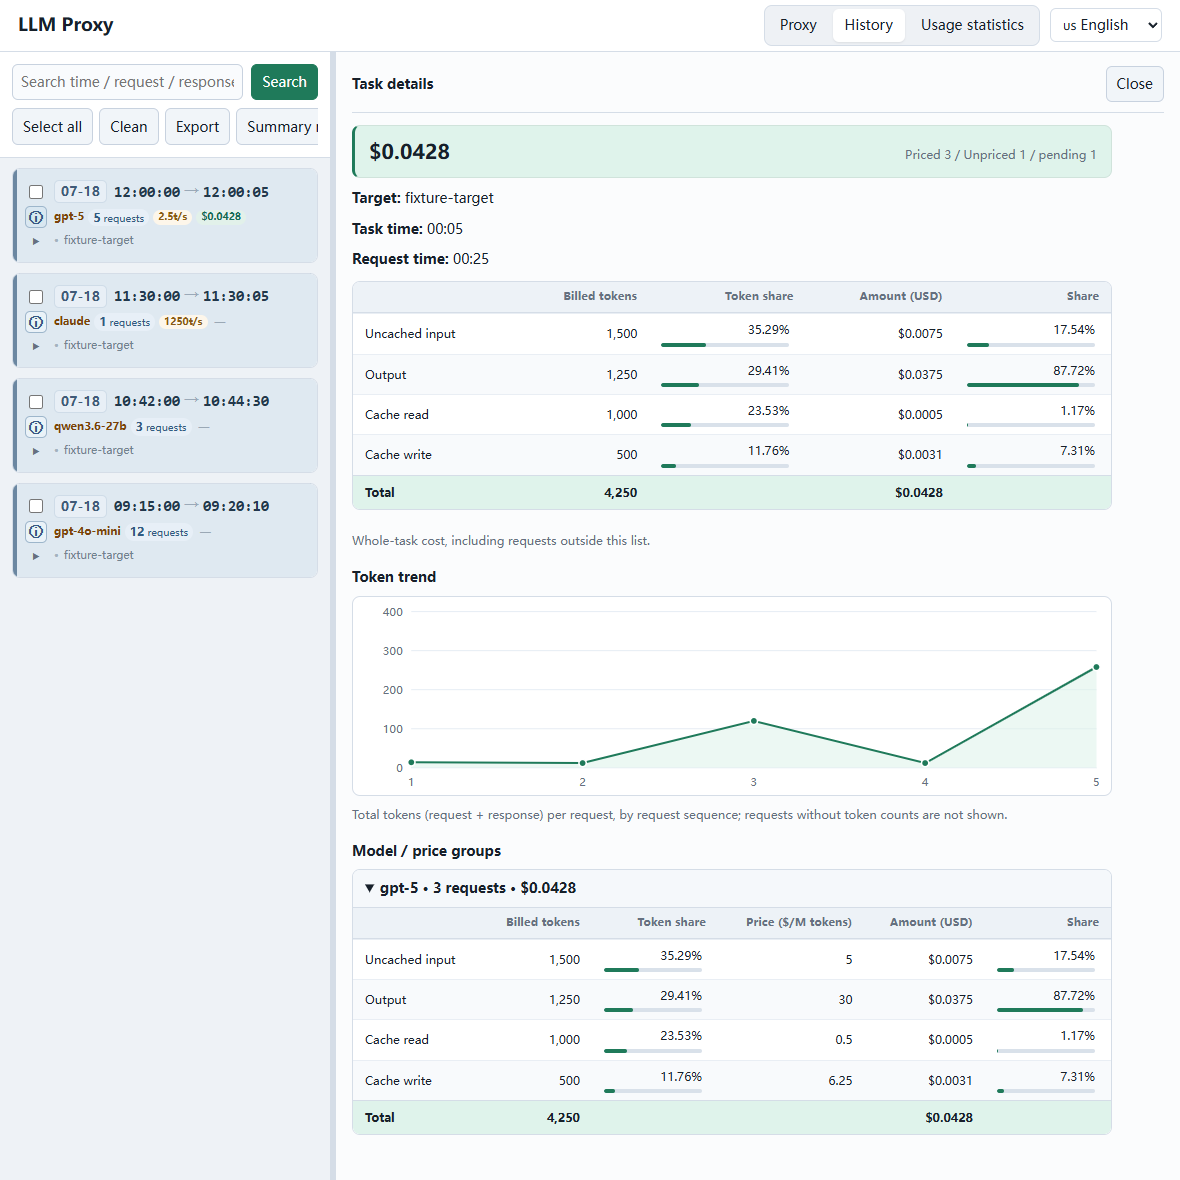
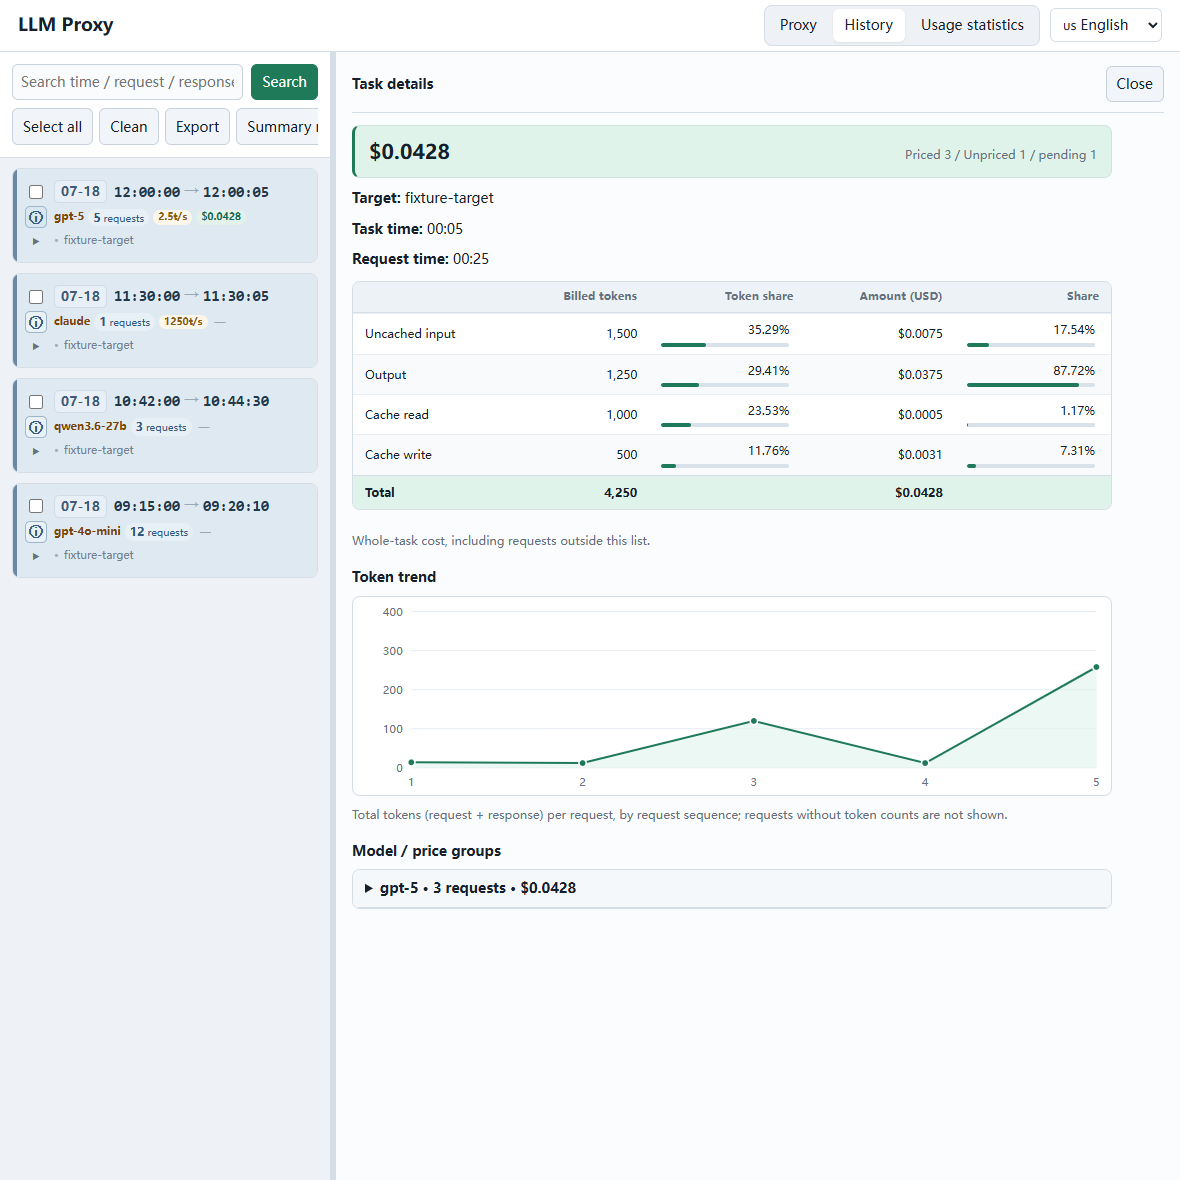
feat(ui): collapse task price groups by default and remember their state across panel refreshes
- Task-detail 'Model / price groups' sections now start collapsed instead of open
- Manual open/closed state is remembered per task (localStorage) and restored after
  panel re-renders (auto/manual refresh, reopening the panel)
- Admin UI test now asserts the default-collapsed behavior and persistence across
  re-renders; task-detail visual baselines regenerated (collapsed state)
- Updated design and visual-baseline docs accordingly

diff --git a/src/admin/static/app.js b/src/admin/static/app.js
@@ -404,6 +404,7 @@ const state = {
   taskPricing: null,
   taskTokenSeries: null,
   taskPricingAbort: null,
+  pricingGroupOpen: {},
   logsLoadedAt: 0,
   logLimit: 100,
   logOffset: 0,
@@ -1676,6 +1677,30 @@ function taskTokenChartHtml(points) {
     .join("");
   return `<div class="token-chart"><svg viewBox="0 0 ${width} ${height}" role="img" aria-label="${escapeHtml(t("tokenTrend"))}">${gridLines.join("")}${xLabels}${area}${line}${dots}</svg></div>`;
 }
+const pricingGroupOpenStorageKey = "llmProxyPricingGroupOpen";
+function loadPricingGroupOpenState() {
+  let parsed = null;
+  try {
+    parsed = JSON.parse(localStorage.getItem(pricingGroupOpenStorageKey) || "{}");
+  } catch {
+    parsed = null;
+  }
+  state.pricingGroupOpen = {};
+  if (parsed && typeof parsed === "object" && !Array.isArray(parsed)) {
+    Object.entries(parsed).forEach(([groupId, models]) => {
+      if (!models || typeof models !== "object" || Array.isArray(models)) return;
+      state.pricingGroupOpen[groupId] = Object.fromEntries(
+        Object.keys(models)
+          .filter((model) => Boolean(models[model]))
+          .map((model) => [model, true]),
+      );
+    });
+  }
+}
+function savePricingGroupOpenState() {
+  localStorage.setItem(pricingGroupOpenStorageKey, JSON.stringify(state.pricingGroupOpen));
+}
+loadPricingGroupOpenState();
 function renderTaskPricingPanel() {
   const panel = $("pricingPanel");
   const detail = $("detail");
@@ -1697,11 +1722,17 @@ function renderTaskPricingPanel() {
     return;
   }
   const data = pricing.data;
+  const openGroups = state.pricingGroupOpen[active] || {};
+  const presentModels = new Set((data.groups || []).map((group) => group.billing_model || "—"));
+  Object.keys(openGroups).forEach((model) => {
+    if (!presentModels.has(model)) delete openGroups[model];
+  });
+  if (Object.keys(openGroups).length === 0) delete state.pricingGroupOpen[active];
   const groups = (data.groups || [])
-    .map(
-      (group) =>
-        `<details open><summary>${escapeHtml(group.billing_model || "—")} · ${escapeHtml(String(group.request_count))} ${escapeHtml(t("requests"))} · ${escapeHtml(pricingAmount(group.cost_nano_cny))}</summary>${taskBreakdownTableHtml(group.breakdown, pricingDecimalFromNano(group.cost_nano_cny), group.price)}</details>`,
-    )
+    .map((group) => {
+      const model = group.billing_model || "—";
+      return `<details${openGroups[model] ? " open" : ""} data-price-group-model="${escapeHtml(model)}"><summary>${escapeHtml(model)} · ${escapeHtml(String(group.request_count))} ${escapeHtml(t("requests"))} · ${escapeHtml(pricingAmount(group.cost_nano_cny))}</summary>${taskBreakdownTableHtml(group.breakdown, pricingDecimalFromNano(group.cost_nano_cny), group.price)}</details>`;
+    })
     .join("");
   const reasons = Object.entries(data.unpriced_reasons || {})
     .map(([reason, count]) => `${reason}: ${count}`)
@@ -3211,6 +3242,20 @@ $("logItems").addEventListener("keydown", (event) => {
   }
 });
 $("pricingPanel").addEventListener("click", (event) => {
+  const summary = event.target.closest("summary");
+  if (summary && state.activeTaskPricing) {
+    const details = summary.parentElement;
+    if (details && details.hasAttribute("data-price-group-model")) {
+      const openGroups =
+        state.pricingGroupOpen[state.activeTaskPricing] ||
+        (state.pricingGroupOpen[state.activeTaskPricing] = {});
+      const model = details.dataset.priceGroupModel;
+      if (details.open) delete openGroups[model];
+      else openGroups[model] = true;
+      savePricingGroupOpenState();
+      return;
+    }
+  }
   if (event.target.closest("[data-close-pricing]")) {
     closeTaskPricing();
     return;

diff --git a/test-node/ui/admin-ui.test.ts b/test-node/ui/admin-ui.test.ts
@@ -1310,6 +1310,26 @@ describe("admin UI history page", { timeout: UI_TEST_TIMEOUT_MS }, () => {
     const groupBreakdown = groupDetails.locator(".task-breakdown");
     await expectPage(groupBreakdown.locator("thead")).toContainText("Price ($/M tokens)");
     await expectPage(groupBreakdown.locator("thead")).toContainText("Billed tokens");
+    // Model/price groups default to collapsed and keep the manual state across panel re-renders.
+    await expectPage(groupBreakdown).toBeHidden();
+    await groupDetails.locator("summary").click();
+    await expectPage(groupBreakdown).toBeVisible();
+    await Promise.all([
+      page.waitForResponse((response) =>
+        response.url().endsWith("/api/log-groups/task-one/pricing"),
+      ),
+      group.locator("[data-group-detail]").press("Enter"),
+    ]);
+    await expectPage(groupBreakdown).toBeVisible();
+    await groupDetails.locator("summary").click();
+    await expectPage(groupBreakdown).toBeHidden();
+    await Promise.all([
+      page.waitForResponse((response) =>
+        response.url().endsWith("/api/log-groups/task-one/pricing"),
+      ),
+      group.locator("[data-group-detail]").press("Enter"),
+    ]);
+    await expectPage(groupBreakdown).toBeHidden();
     const taskBreakdown = panel.locator(".task-breakdown").first();
     await expectPage(taskBreakdown.locator("thead")).toContainText("Share");
     await expectPage(taskBreakdown.locator("tbody tr").first()).toContainText("17.54%");

diff --git a/docs/model-token-pricing-design.md b/docs/model-token-pricing-design.md
@@ -140,7 +140,7 @@ API Key   ••••••••••
 缓存写入                   500                        0.0031        7.18%
 合计                     5,775                        0.0428
 
-按模型 / 单价分组（默认展开，面板刷新后恢复展开）
+按模型 / 单价分组（默认折叠，展开/折叠状态按任务记忆，以下为展开后的样子）
 ▾ gpt-5.6-sol · 3 次请求                             ¥0.0428
   类别         已计价 token 数      单价（元/M token）   金额（元）   占比
   普通输入         1,500                 5               0.0075     17.54%
@@ -150,7 +150,7 @@ API Key   ••••••••••
   合计              5,775                                      ¥0.0428
 ```
 
-面板顶部显示该 task 的转发地址、任务总耗时（第一个请求的 `started_at` 到最后一个已结束请求结束时刻（`started_at + duration_ms`）的墙钟间隔，含请求之间的间隔；尚无已结束请求时隐藏该行）与请求总耗时（该 task 全部已结束请求从发出到结束的 `duration_ms` 之和，两个请求之间的间隔不计入；无已结束请求时隐藏该行），上半部分汇总四类 token 与费用，下半部分按“实际模型 + 乘后四项实际单价 + 算法版本”分组，每组默认展开，表格内直接列出四类实际单价。面板数据刷新后重新渲染，展开状态恢复为默认展开；用户手动折叠只在当前展示期间生效。地址是 task 的共同属性，不作为组内分组维度。同一模型在任务期间改过价或倍率时拆成不同价格组，不能用当前单价乘整个 task 的 token，也不展示一个混合平均单价。单纯计价时间不同不拆组。
+面板顶部显示该 task 的转发地址、任务总耗时（第一个请求的 `started_at` 到最后一个已结束请求结束时刻（`started_at + duration_ms`）的墙钟间隔，含请求之间的间隔；尚无已结束请求时隐藏该行）与请求总耗时（该 task 全部已结束请求从发出到结束的 `duration_ms` 之和，两个请求之间的间隔不计入；无已结束请求时隐藏该行），上半部分汇总四类 token 与费用，下半部分按“实际模型 + 乘后四项实际单价 + 算法版本”分组，每组默认折叠，表格内直接列出四类实际单价。面板数据刷新后重新渲染，恢复用户在刷新前手动设置的展开/折叠状态（每个任务按模型分别记忆，存于浏览器 localStorage）；新打开或从未手动操作过的组保持默认折叠。地址是 task 的共同属性，不作为组内分组维度。同一模型在任务期间改过价或倍率时拆成不同价格组，不能用当前单价乘整个 task 的 token，也不展示一个混合平均单价。单纯计价时间不同不拆组。
 
 总额、四类明细与分组小计都从该 task 全部记录的原始计费数据计算，与请求列表分页、搜索词无关。四类 token 仅统计完整已计价请求，标明“已计价 token 数”，不让缺价请求的 token 与已知费用混在一起。未计价记录按原因统计数量，进行中单列。全未计价时显示原因分布，不显示假的零元明细。
 

diff --git a/docs/refactoring/ui-visual-baseline.md b/docs/refactoring/ui-visual-baseline.md
@@ -16,8 +16,8 @@
[7 lines of base64/hex data omitted]
 
 哈希复现命令：
 
@@ -82,7 +82,7 @@ sha256sum doc/ui_proxy_cn.png doc/ui_proxy_en.png doc/ui_logs_cn.png doc/ui_logs
 - 高亮块下按序为转发地址、任务总耗时（首请求到末请求结束的墙钟时间）与请求总耗时（各请求耗时之和）三行说明。
 - 中部为计费明细表：按“未缓存输入 / 输出 / 缓存读取 / 缓存写入”列出计费 tokens、token 占比、金额与费用占比（带占比条），末行为合计。
 - 表下为“Whole-task cost”提示文案，随后是“Token 趋势”折线图（SVG，x=请求序号，y=每请求 token 总量，一个点一个请求，点带悬停 title）及图下方说明。
-- 面板底部列出按计费模型分组的“价格分组”折叠卡片（模型 · 请求数 · 费用），展开后为对应明细表。
+- 面板底部列出按计费模型分组的“价格分组”折叠卡片（模型 · 请求数 · 费用），默认折叠，展开后为对应明细表；手动展开/折叠状态按任务记忆，面板刷新后保持。
 - 面板内容宽度上限约 760px；中英文界面保持同一布局，金额单位分别使用 ¥ 与 $。
 
 ## 自动化视觉回归约定
